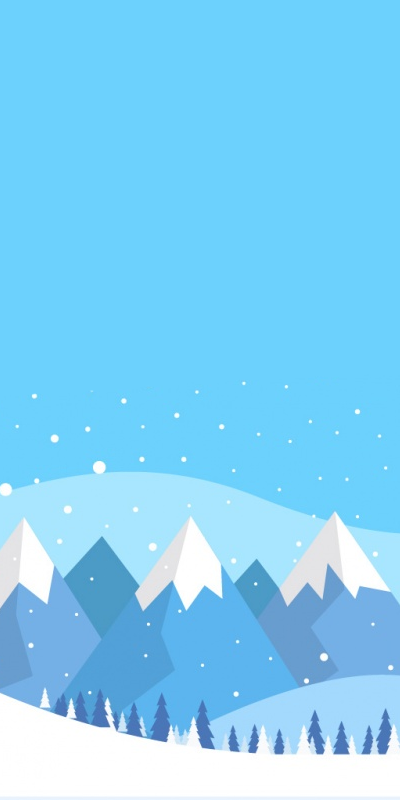
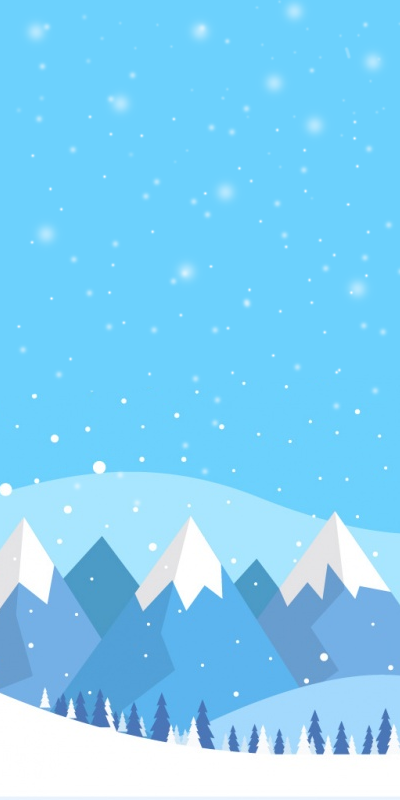
Atualização background

diff --git a/js/states/GameState.js b/js/states/GameState.js
@@ -21,6 +21,13 @@ var GameState = {
         this.points = 0;
         this.life = 3;
         this.maxPoints = 300;
+
+        this.max = 0;
+        this.ront_emitter = 0;
+        this.mid_emitter = 0;
+        this.back_emitter = 0;
+        this.update_interval = 4 * 60;
+        this.i = 0;
     },
 
     preload: function() {
@@ -30,6 +37,8 @@ var GameState = {
 
         // this.load.image('progress', 'assets/progress.png');
         this.load.image('background', 'assets/background.png');
+
+        this.load.image('snowflakes', 'assets/snowflakes.png');
     },
 
     create: function() {
@@ -39,6 +48,7 @@ var GameState = {
         this.platformsCreate();
         this.enemiesCreate();
         this.goatCreate();
+        // this.setupSnow();
 
         this.setupHUD();
     },
@@ -80,6 +90,14 @@ var GameState = {
 
         this.updatePoints();
         // this.updateLife();
+
+        // this.i++;
+        //
+        // if (this.i === this.update_interval) {
+        //     this.changeWindDirection();
+        //     this.update_interval = Math.floor(Math.random() * 4) * 20; // 0 - 20sec @ 60fps
+        //     this.i = 0;
+        // }
     },
 
     // MARK: - Public Methods
@@ -250,5 +268,71 @@ var GameState = {
     // updateLife: function() {
     //     this.lifeText.setText("Vidas: " + this.life + " / 3");
     // }
+
+    setupSnow: function() {
+        this.back_emitter = game.add.emitter(game.world.centerX, -32, 600);
+        this.back_emitter.makeParticles('snowflakes', [0, 1, 2, 3, 4, 5]);
+        this.back_emitter.maxParticleScale = 0.6;
+        this.back_emitter.minParticleScale = 0.2;
+        this.back_emitter.setYSpeed(20, 100);
+        this.back_emitter.gravity = 0;
+        this.back_emitter.width = game.world.width * 1.5;
+        this.back_emitter.minRotation = 0;
+        this.back_emitter.maxRotation = 40;
+
+        this.mid_emitter = game.add.emitter(game.world.centerX, -32, 250);
+        this.mid_emitter.makeParticles('snowflakes', [0, 1, 2, 3, 4, 5]);
+        this.mid_emitter.maxParticleScale = 1.2;
+        this.mid_emitter.minParticleScale = 0.8;
+        this.mid_emitter.setYSpeed(50, 150);
+        this.mid_emitter.gravity = 0;
+        this.mid_emitter.width = game.world.width * 1.5;
+        this.mid_emitter.minRotation = 0;
+        this.mid_emitter.maxRotation = 40;
+
+        this.front_emitter = game.add.emitter(game.world.centerX, -32, 50);
+        this.front_emitter.makeParticles('snowflakes', [0, 1, 2, 3, 4, 5]);
+        this.front_emitter.maxParticleScale = 1;
+        this.front_emitter.minParticleScale = 0.5;
+        this.front_emitter.setYSpeed(100, 200);
+        this.front_emitter.gravity = 0;
+        this.front_emitter.width = game.world.width * 1.5;
+        this.front_emitter.minRotation = 0;
+        this.front_emitter.maxRotation = 40;
+
+        this.changeWindDirection();
+
+        this.back_emitter.start(false, 14000, 20);
+        this.mid_emitter.start(false, 12000, 40);
+        this.front_emitter.start(false, 6000, 1000);
+    },
+
+    changeWindDirection: function() {
+
+        var multi = Math.floor((this.max + 200) / 4),
+            frag = (Math.floor(Math.random() * 100) - multi);
+        this.max = this.max + frag;
+
+        if (this.max > 200) this.max = 150;
+        if (this.max < -200) this.max = -150;
+
+        this.setXSpeed(this.back_emitter, this.max);
+        this.setXSpeed(this.mid_emitter, this.max);
+        this.setXSpeed(this.front_emitter, this.max);
+
+    },
+
+    setXSpeed: function(emitter, max) {
+
+        emitter.setXSpeed(max - 20, max);
+        emitter.forEachAlive(this.setParticleXSpeed, this, max);
+
+    },
+
+    setParticleXSpeed: function(particle, max) {
+
+        particle.body.velocity.x = max - Math.floor(Math.random() * 30);
+
+    },
 
 };
